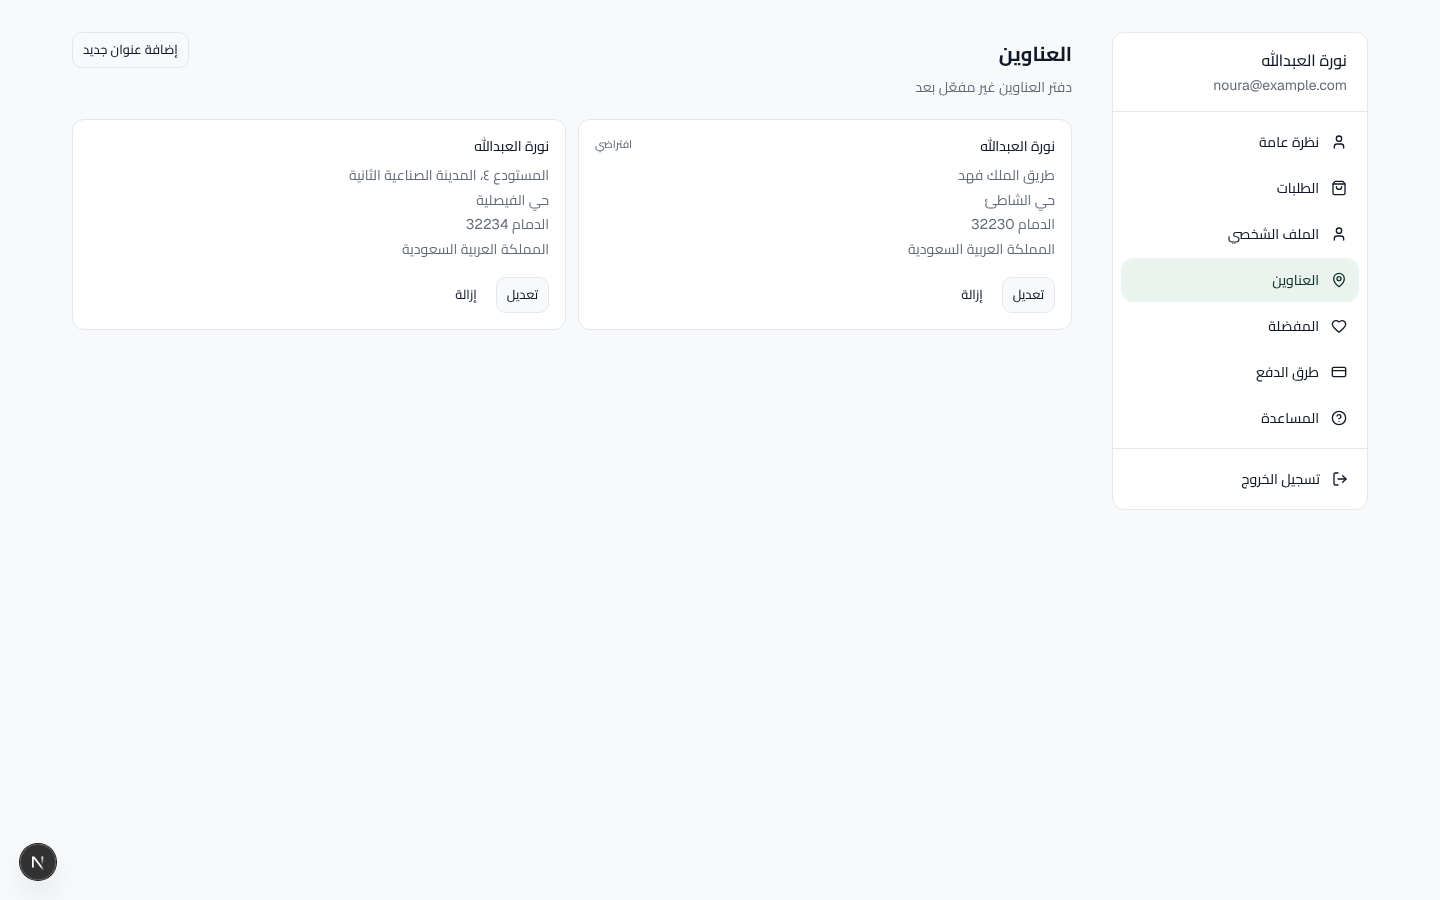
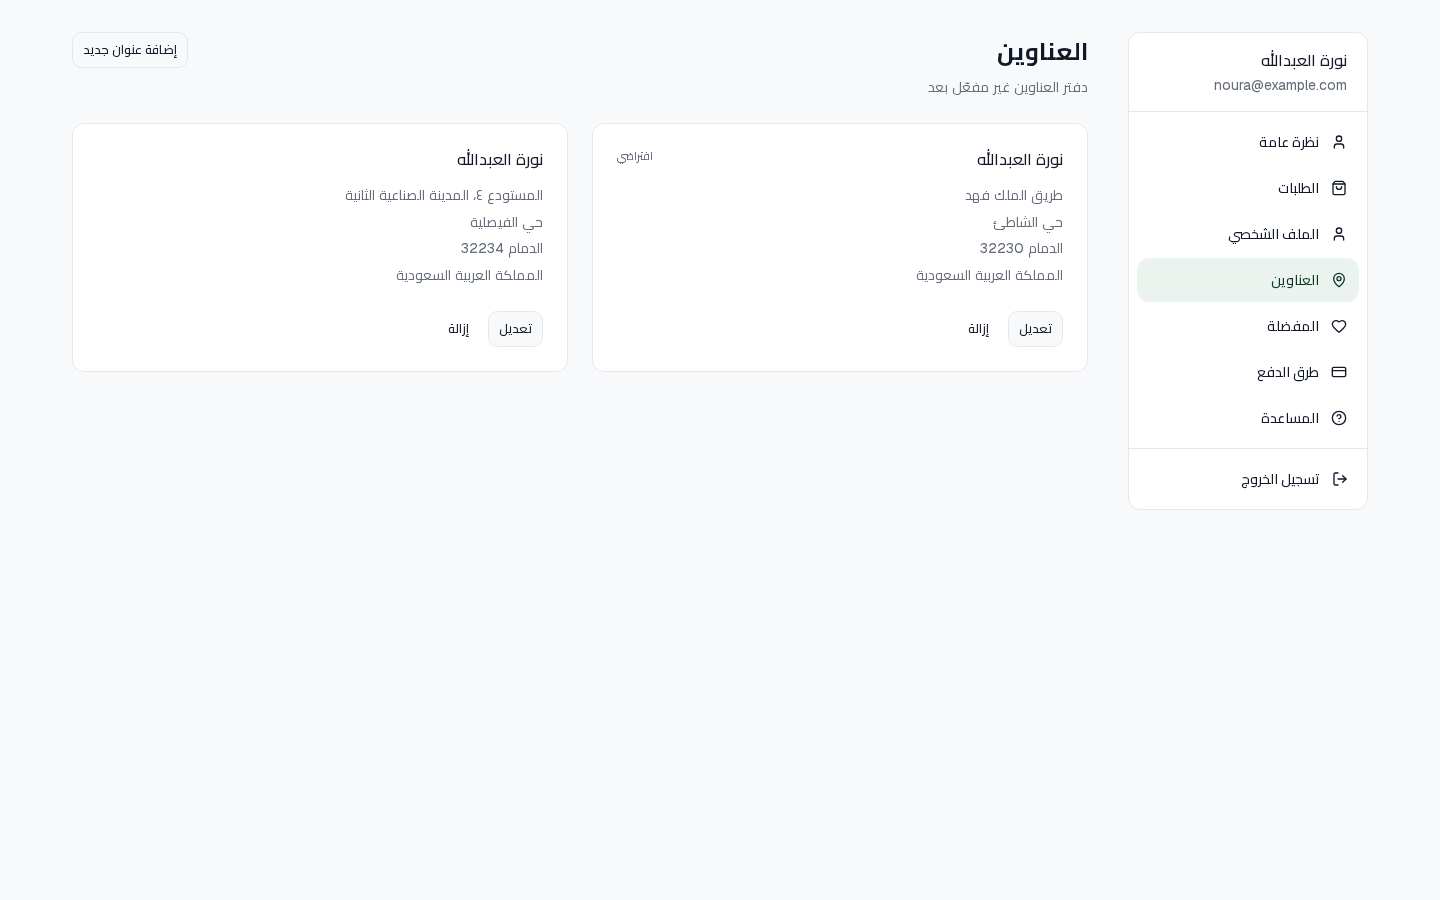
fix(store): STORE-UI-5 visual correction round 3
Desktop-only 1440 workspace: drop the profile form max-width, put
email/phone on the lg two-column grid, give address/payment cards
desktop padding, and slim the lg/xl sidebar so the main column is
the wider track. Mobile classes and MobileBottomNav are unchanged.

diff --git a/storefront/src/components/account/AccountPaymentMethods.tsx b/storefront/src/components/account/AccountPaymentMethods.tsx
@@ -37,7 +37,7 @@ export function AccountPaymentMethods() {
   return (
     <div>
       <div className="flex flex-wrap items-end justify-between gap-3">
-        <h1 className="text-xl font-bold text-store-foreground">
+        <h1 className="text-xl font-bold text-store-foreground lg:text-2xl">
           {t("paymentMethods")}
         </h1>
         <Button type="button" variant="outline" size="sm" onClick={refuse}>
@@ -59,22 +59,22 @@ export function AccountPaymentMethods() {
       )}
 
       <ul
-        className="mt-5 grid grid-cols-1 gap-3 lg:grid-cols-2"
+        className="mt-5 grid grid-cols-1 gap-3 lg:mt-6 lg:grid-cols-2 lg:gap-6"
         aria-label={t("savedMethodShape")}
       >
         {METHOD_FIXTURES.map(({ key, Icon, showExpiry, isDefault }) => (
           <li key={key}>
-            <article className="flex h-full flex-col rounded-store border border-store-border bg-store-surface px-4 py-4">
-              <div className="flex items-start gap-3">
-                <span className="flex size-10 shrink-0 items-center justify-center rounded-store border border-store-border">
+            <article className="flex h-full flex-col rounded-store border border-store-border bg-store-surface px-4 py-4 lg:px-6 lg:py-6">
+              <div className="flex items-start gap-3 lg:gap-4">
+                <span className="flex size-10 shrink-0 items-center justify-center rounded-store border border-store-border lg:size-12">
                   <Icon
-                    className="size-4 text-store-foreground"
+                    className="size-4 text-store-foreground lg:size-5"
                     aria-hidden="true"
                   />
                 </span>
                 <div className="min-w-0 flex-1">
                   <div className="flex items-start justify-between gap-3">
-                    <p className="text-sm font-medium text-store-foreground">
+                    <p className="text-sm font-medium text-store-foreground lg:text-base">
                       {t(`savedMethod.${key}`)}
                     </p>
                     {isDefault ? (
@@ -83,17 +83,17 @@ export function AccountPaymentMethods() {
                       </span>
                     ) : null}
                   </div>
-                  <p className="mt-1 font-mono text-sm tracking-wide text-store-muted-foreground">
+                  <p className="mt-1 font-mono text-sm tracking-wide text-store-muted-foreground lg:mt-1.5 lg:text-base">
                     <bdi>{t("methodMask")}</bdi>
                   </p>
                   {showExpiry ? (
-                    <p className="mt-0.5 text-xs text-store-muted-foreground">
+                    <p className="mt-0.5 text-xs text-store-muted-foreground lg:mt-1 lg:text-sm">
                       <bdi>{t("methodExpiry")}</bdi>
                     </p>
                   ) : null}
                 </div>
               </div>
-              <div className="mt-auto pt-4">
+              <div className="mt-auto pt-4 lg:pt-6">
                 <Button
                   type="button"
                   variant="ghost"

diff --git a/storefront/src/components/account/AccountProfileForm.tsx b/storefront/src/components/account/AccountProfileForm.tsx
@@ -68,13 +68,13 @@ export function AccountProfileForm({ user }: { user: User }) {
 
   return (
     <div>
-      <h1 className="text-xl font-bold text-store-foreground">
+      <h1 className="text-xl font-bold text-store-foreground lg:text-2xl">
         {t("profile")}
       </h1>
 
       <form
         onSubmit={handleSubmit}
-        className="mt-4 max-w-3xl space-y-3 xl:max-w-4xl"
+        className="mt-4 w-full space-y-3 lg:mt-6 lg:space-y-5"
       >
         {error && (
           <Alert variant="destructive">
@@ -88,7 +88,7 @@ export function AccountProfileForm({ user }: { user: User }) {
           </p>
         )}
 
-        <div className="grid grid-cols-1 gap-3 sm:grid-cols-2">
+        <div className="grid grid-cols-1 gap-3 sm:grid-cols-2 lg:gap-x-8 lg:gap-y-5">
           <Field>
             <FieldLabel htmlFor="first_name">{t("firstName")}</FieldLabel>
             <Input
@@ -115,30 +115,32 @@ export function AccountProfileForm({ user }: { user: User }) {
           </Field>
         </div>
 
-        <Field>
-          <FieldLabel htmlFor="email">{t("emailAddress")}</FieldLabel>
-          <Input
-            type="email"
-            id="email"
-            autoComplete="email"
-            required
-            value={formData.email}
-            onChange={(event) =>
-              setFormData({ ...formData, email: event.target.value })
-            }
-          />
-        </Field>
+        <div className="grid grid-cols-1 gap-3 lg:grid-cols-2 lg:gap-x-8 lg:gap-y-5">
+          <Field>
+            <FieldLabel htmlFor="email">{t("emailAddress")}</FieldLabel>
+            <Input
+              type="email"
+              id="email"
+              autoComplete="email"
+              required
+              value={formData.email}
+              onChange={(event) =>
+                setFormData({ ...formData, email: event.target.value })
+              }
+            />
+          </Field>
 
-        <Field>
-          <FieldLabel htmlFor="phone">{t("phone")}</FieldLabel>
-          <Input type="tel" id="phone" disabled readOnly value="" />
-          <p className="text-sm text-store-muted-foreground">
-            {t("phoneUnavailable")}
-          </p>
-        </Field>
+          <Field>
+            <FieldLabel htmlFor="phone">{t("phone")}</FieldLabel>
+            <Input type="tel" id="phone" disabled readOnly value="" />
+            <p className="text-sm text-store-muted-foreground">
+              {t("phoneUnavailable")}
+            </p>
+          </Field>
+        </div>
 
         {emailChanged && (
-          <div>
+          <div className="lg:max-w-xl">
             <AccountPasswordField
               id="current_password"
               label={t("currentPassword")}

diff --git a/storefront/src/components/account/AccountAddresses.tsx b/storefront/src/components/account/AccountAddresses.tsx
@@ -52,7 +52,7 @@ export function AccountAddresses() {
   return (
     <div>
       <div className="flex flex-wrap items-end justify-between gap-3">
-        <h1 className="text-xl font-bold text-store-foreground">
+        <h1 className="text-xl font-bold text-store-foreground lg:text-2xl">
           {t("addresses")}
         </h1>
         <Button type="button" variant="outline" size="sm" onClick={refuse}>
@@ -75,13 +75,13 @@ export function AccountAddresses() {
 
       <ul
         aria-label={t("addressCardShape")}
-        className="mt-5 grid grid-cols-1 gap-3 lg:grid-cols-2"
+        className="mt-5 grid grid-cols-1 gap-3 lg:mt-6 lg:grid-cols-2 lg:gap-6"
       >
         {ADDRESS_FIXTURES.map((fixture) => (
           <li key={fixture.id}>
-            <article className="flex h-full flex-col rounded-store border border-store-border bg-store-surface px-4 py-4">
+            <article className="flex h-full flex-col rounded-store border border-store-border bg-store-surface px-4 py-4 lg:px-6 lg:py-6">
               <div className="flex items-start justify-between gap-3">
-                <p className="min-w-0 text-sm font-medium text-store-foreground">
+                <p className="min-w-0 text-sm font-medium text-store-foreground lg:text-base">
                   {t(fixture.name)}
                 </p>
                 {fixture.isDefault ? (
@@ -90,13 +90,13 @@ export function AccountAddresses() {
                   </span>
                 ) : null}
               </div>
-              <div className="mt-2 space-y-0.5 text-sm leading-relaxed text-store-muted-foreground">
+              <div className="mt-2 space-y-0.5 text-sm leading-relaxed text-store-muted-foreground lg:mt-3 lg:space-y-1">
                 <p>{t(fixture.line1)}</p>
                 <p>{t(fixture.line2)}</p>
                 <p>{t(fixture.cityPostal)}</p>
                 <p>{t(fixture.country)}</p>
               </div>
-              <div className="mt-auto flex flex-wrap gap-2 pt-4">
+              <div className="mt-auto flex flex-wrap gap-2 pt-4 lg:pt-6">
                 <Button
                   type="button"
                   variant="outline"

diff --git a/storefront/src/components/account/AccountShell.tsx b/storefront/src/components/account/AccountShell.tsx
@@ -80,7 +80,7 @@ export function AccountShell({
   return (
     <StoreContainer className="py-5 sm:py-7 lg:py-8">
       <div className="flex flex-col gap-6 lg:flex-row lg:items-start lg:gap-8 xl:gap-10">
-        <aside className="hidden lg:block lg:w-64 lg:shrink-0">
+        <aside className="hidden lg:block lg:w-56 lg:shrink-0 xl:w-60">
           <div className="overflow-hidden rounded-store border border-store-border bg-store-surface lg:sticky lg:top-24">
             <div className="border-b border-store-border px-5 py-4">
               <p className="truncate font-medium text-store-foreground">

diff --git a/docs/plans/store/STORE-UI-5-IMPLEMENTATION-REPORT.md b/docs/plans/store/STORE-UI-5-IMPLEMENTATION-REPORT.md
@@ -2,7 +2,7 @@
 
 ## 1. Status
 
-**COMPLETE pending visual re-review (correction round 2).** **Not merged, not deployed.**
+**COMPLETE pending visual re-review (correction round 3).** **Not merged, not deployed.**
 `NO VISUAL APPROVAL = NO MERGE` is respected.
 
 ## 2. Git
@@ -12,7 +12,7 @@
 | **Latest main SHA** | `30979a1bb499cfe8b0e656495805e50225027530` — STORE-UI-4 merge (PR #866) |
 | **Base SHA** | `30979a1bb499cfe8b0e656495805e50225027530` (verified ancestor of this branch) |
 | **Branch** | `feat/store-ui-5-customer-account` |
-| **Head SHA** | `4f7d9866f43f86b3856e1fb08a9b50d12dba8c70` |
+| **Head SHA** | round 3 — see §25 |
 | **PR** | [#868](https://github.com/safwan5001-source/Nebrax/pull/868) |
 
 `git merge-base --is-ancestor 30979a1bb499cfe8b0e656495805e50225027530 HEAD` holds.
@@ -476,9 +476,95 @@ storefront builds, not a STORE-UI-5 regression. Static generation completed
 Round 1 extras (`mobile-390-ar-orders`, `mobile-390-ar-order-detail`,
 `desktop-1440-ar-overview`) were removed so the folder is only this set.
 
-## 24. Next step
+## 24. Next step after round 2
 
-Owner visual review of correction round 2. On approval, merge. The
-`DESIGN_ONLY` account capabilities then become dedicated backend tasks
+Owner visual review of correction round 2 accepted **mobile** and withheld
+desktop approval. A third, desktop-only visual pass follows.
+
+## 25. Visual correction round 3 (desktop 1440)
+
+Owner review of round 2 accepted mobile (including MobileBottomNav) and
+withheld visual approval because the 1440 account workspace still read as a
+small, compressed form parked in unused canvas. This round is visual only
+and **desktop-only**: no mobile class changes, no MobileBottomNav change,
+no contract, capability, auth, tenant, accounting, cart, checkout, or
+catalog change.
+
+| Finding | Correction |
+|---|---|
+| Profile form was `max-w-3xl` / `xl:max-w-4xl` (896px) inside a ~1000px main column, so fields sat like a mobile form beside a void | Max-width removed. Form is `w-full` of the main column. First/last stay `sm:grid-cols-2`. Email + phone become `lg:grid-cols-2` so each desktop field is ~492px at 1440 — desktop-sized, not stretched to the viewport, not 358px mobile. Password (when shown) stays `lg:max-w-xl`. |
+| Address / payment cards filled the grid but felt compact on a 1440 canvas | Same two-card `lg:grid-cols-2` book. Desktop-only: `lg:gap-6`, `lg:px-6 lg:py-6`, name `lg:text-base`, payment icon `lg:size-12`. No extra cards, no shadows, no gradients. |
+| Sidebar still competed with the main column | Sidebar `lg:w-56` / `xl:w-60` (224 / 240). Gap unchanged (`lg:gap-8` / `xl:gap-10`). Main is the wider column at every `lg+` width. Mobile aside remains `hidden`. |
+
+**Capability classification (unchanged):**
+
+| Surface | State |
+|---|---|
+| Addresses | **DESIGN_ONLY / GATED** |
+| Payment methods | **DESIGN_ONLY / GATED** |
+
+Add / Edit / Remove still call `refuse()`, write no storage, report no success. No brand, no card field, no invented API.
+
+**Mobile.** Not redesigned. 390 inspect: aside `display:none`, form 358, inputs 358 stacked. `scrollWidth === clientWidth`. MobileBottomNav untouched.
+
+**Orders / order detail.** Not redesigned. They inherit only the slightly narrower desktop sidebar.
+
+**Responsive verification (programmatic, Playwright Chromium, no overflow):**
+
+| Width | Sidebar | Main | Profile form | Field width | Address cards |
+|---|---|---|---|---|---|
+| 390 | hidden | 358 | 358 | 358 (1-col) | 1-col |
+| 1024 | 224 | 704 | 704 | 336 × 2 | 2-col |
+| 1280 | 240 | 936 | 936 | 452 × 2 | 2-col |
+| 1440 | 240 | 1016 | 1016 | 492 × 2 | 496 × 2 |
+
+RTL (AR): sidebar `aside.x = 1128`, main `x = 72`. LTR (EN profile): sidebar `aside.x = 72`, main `x = 352`. `scrollWidth === clientWidth` at every width.
+
+**Changed files**
+
+- `storefront/src/components/account/AccountShell.tsx`
+- `storefront/src/components/account/AccountProfileForm.tsx`
+- `storefront/src/components/account/AccountAddresses.tsx`
+- `storefront/src/components/account/AccountPaymentMethods.tsx`
+- `docs/plans/store/STORE-UI-5-IMPLEMENTATION-REPORT.md`
+- `docs/plans/store/store-ui-5-visual-qa/desktop-1440-ar-profile.png`
+- `docs/plans/store/store-ui-5-visual-qa/desktop-1440-ar-addresses.png`
+- `docs/plans/store/store-ui-5-visual-qa/desktop-1440-ar-payment.png`
+- `docs/plans/store/store-ui-5-visual-qa/desktop-1440-en-profile.png` (new LTR check)
+
+**Tests and exact results**
+
+```
+pnpm exec vitest run src/components/account  →  8 files, 25 tests passed
+pnpm test                                     →  72 files, 528 tests passed
+pnpm exec biome check (changed files)         →  4 files, no fixes applied
+pnpm exec tsc --noEmit                        →  clean
+```
+
+No locale key changes. Architecture guards unchanged (no Spree SDK, no brands, no browser storage, no fake success, no `<Input>` on payment methods).
+
+**Visual QA (this round, 1440 only)** in
+`docs/plans/store/store-ui-5-visual-qa/`:
+
+- `desktop-1440-ar-profile.png`
+- `desktop-1440-ar-addresses.png`
+- `desktop-1440-ar-payment.png`
+- `desktop-1440-en-profile.png`
+
+Mobile captures from round 2 were not regenerated.
+
+**Git**
+
+| | |
+|---|---|
+| **Base SHA** | `30979a1bb499cfe8b0e656495805e50225027530` |
+| **Round 2 Head** | `4f7d9866` / docs `2df605c5` |
+| **Round 3 Head** | see commit after push |
+| **PR** | [#868](https://github.com/safwan5001-source/Nebrax/pull/868) — open, not merged |
+
+## 26. Next step
+
+Owner visual review of correction round 3 (desktop 1440). On approval, merge.
+The `DESIGN_ONLY` account capabilities then become dedicated backend tasks
 against UI that is already agreed, each with its contract already written
 down.
